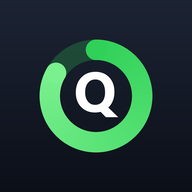
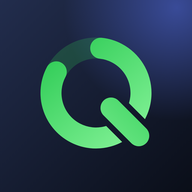
Add files via upload

diff --git a/index.html b/index.html
@@ -550,23 +550,43 @@ ol.steps li::before{
 .splash.gone{opacity:0; visibility:hidden; pointer-events:none}
 .splash-in{
   display:flex; flex-direction:column; align-items:center;
-  transition:transform .55s cubic-bezier(.4,0,.2,1), opacity .35s ease;
+  transition:transform .55s cubic-bezier(.4,0,.2,1), opacity .35s ease, filter .45s ease;
 }
-.splash.gone .splash-in{transform:scale(1.12); opacity:0}
+.splash.gone .splash-in{transform:scale(1.14); opacity:0; filter:blur(8px)}
+
+/* Ardıcıllıq: nişan dumandan çıxır → halqa çəkilir → quyruq çıxıb Q-nu tamamlayır →
+   dalğa və parıltı keçir → ad aydınlaşır. Hər sinfin əsas halı son haldır. */
+.sp-mark{position:relative; width:96px; height:96px}
+.sp-halo{
+  position:absolute; left:50%; top:50%; width:300px; height:300px; margin:-150px 0 0 -150px; border-radius:50%;
+  background:radial-gradient(closest-side, color-mix(in srgb, var(--accent) 38%, transparent), transparent);
+  opacity:.5; pointer-events:none; animation:sp-halo 1.5s .05s cubic-bezier(.2,.7,.2,1) both;
+}
 .splash-logo{
-  width:96px; height:96px; overflow:visible;
-  filter:drop-shadow(0 16px 30px rgba(8,16,32,.32));
-  animation:sp-bump .55s 1.2s cubic-bezier(.3,.7,.3,1) both;
+  position:relative; display:block; width:96px; height:96px; overflow:visible;
+  filter:blur(0) drop-shadow(0 16px 30px rgba(8,16,32,.32));
+  animation:sp-in .75s cubic-bezier(.2,.9,.25,1.06) both, sp-bump .55s 1.12s cubic-bezier(.3,.7,.3,1);
 }
-.sp-bg{transform-box:fill-box; transform-origin:center; animation:sp-bg .6s cubic-bezier(.2,.9,.25,1.1) both}
-.sp-track{opacity:0; animation:qj-fade .35s .3s ease both}
-.sp-arc{stroke-dashoffset:300; animation:sp-arc .9s .38s cubic-bezier(.5,.05,.2,1) both}
-.sp-q{transform-box:fill-box; transform-origin:center; animation:sp-q .5s .7s cubic-bezier(.2,.9,.3,1.35) both}
-.splash-name{margin-top:24px; font-size:22px; font-weight:700; letter-spacing:-.025em; color:var(--ink); animation:sp-up .55s .85s cubic-bezier(.2,.8,.2,1) both}
-.splash-sub{margin-top:4px; font-size:14px; color:var(--muted); animation:sp-up .55s .97s cubic-bezier(.2,.8,.2,1) both}
-@keyframes sp-bg{from{transform:scale(.35) rotate(-14deg); opacity:0} to{transform:none; opacity:1}}
-@keyframes sp-arc{0%{stroke-dashoffset:300; opacity:0} 5%{opacity:1} 100%{stroke-dashoffset:0; opacity:1}}
-@keyframes sp-q{from{opacity:0; transform:scale(.35) rotate(-20deg)} to{opacity:1; transform:none}}
+.sp-track{animation:qj-fade .4s .25s ease both}
+.sp-arc{animation:sp-arc .85s .35s cubic-bezier(.65,0,.25,1) both}
+.sp-tail{animation:sp-tail .34s .78s cubic-bezier(.3,.8,.3,1) both}
+.sp-ripple{opacity:0; transform-box:fill-box; transform-origin:center; animation:sp-ripple .8s 1.1s cubic-bezier(.2,.6,.3,1) both}
+.sp-shine{opacity:0; animation:sp-shine .85s 1.1s cubic-bezier(.4,0,.2,1) both}
+.splash-name{margin-top:24px; font-size:22px; font-weight:700; letter-spacing:-.025em; color:var(--ink); animation:sp-name .7s .8s cubic-bezier(.2,.8,.2,1) both}
+.splash-sub{margin-top:4px; font-size:14px; color:var(--muted); animation:sp-up .6s .98s cubic-bezier(.2,.8,.2,1) both}
+@keyframes sp-in{
+  from{opacity:0; transform:scale(.62); filter:blur(12px) drop-shadow(0 16px 30px rgba(8,16,32,0))}
+  to{opacity:1; transform:none; filter:blur(0) drop-shadow(0 16px 30px rgba(8,16,32,.32))}
+}
+@keyframes sp-halo{0%{opacity:0; transform:scale(.45)} 55%{opacity:.85} 100%{opacity:.5; transform:none}}
+@keyframes sp-arc{0%{stroke-dashoffset:292; opacity:0} 6%{opacity:1} 100%{stroke-dashoffset:0; opacity:1}}
+@keyframes sp-tail{0%{stroke-dashoffset:1; opacity:0} 12%{opacity:1} 100%{stroke-dashoffset:0; opacity:1}}
+@keyframes sp-ripple{0%{opacity:.75; transform:none} 100%{opacity:0; transform:scale(2.3)}}
+@keyframes sp-shine{0%{opacity:1; transform:translateX(0) skewX(-18deg)} 100%{opacity:1; transform:translateX(64px) skewX(-18deg)}}
+@keyframes sp-name{
+  from{opacity:0; transform:translateY(12px); filter:blur(8px); letter-spacing:.03em}
+  to{opacity:1; transform:none; filter:blur(0); letter-spacing:-.025em}
+}
 @keyframes sp-up{from{opacity:0; transform:translateY(10px)} to{opacity:1; transform:none}}
 @keyframes sp-bump{0%,100%{transform:none} 45%{transform:scale(1.06)}}
 .win.reveal{animation:win-in .6s cubic-bezier(.2,.8,.2,1) both}
@@ -883,16 +903,22 @@ input, textarea, .report, .report *, .hintbox, .dlg-msg, dl.kv dd{
 
 <svg width="0" height="0" style="position:absolute" aria-hidden="true">
   <defs>
-    <linearGradient id="qj-bg" x1="0" y1="0" x2="0" y2="1"><stop offset="0" stop-color="#1c2333"/><stop offset="1" stop-color="#0b0f18"/></linearGradient>
-    <linearGradient id="qj-ring" x1="1" y1="1" x2="0" y2="0"><stop offset="0" stop-color="#30d158"/><stop offset="1" stop-color="#7af08e"/></linearGradient>
+    <linearGradient id="qj-bg" x1="0" y1="0" x2="1" y2="1"><stop offset="0" stop-color="#222d4d"/><stop offset="1" stop-color="#0a0e18"/></linearGradient>
+    <radialGradient id="qj-glow" cx=".92" cy=".04" r=".95"><stop offset="0" stop-color="#5c78fc" stop-opacity=".5"/><stop offset=".62" stop-color="#5c78fc" stop-opacity="0"/></radialGradient>
+    <linearGradient id="qj-ring" gradientUnits="userSpaceOnUse" x1="7.5" y1="25" x2="25" y2="6.9"><stop offset="0" stop-color="#8af59c"/><stop offset="1" stop-color="#27c850"/></linearGradient>
+    <mask id="qj-cut" maskUnits="userSpaceOnUse" x="0" y="0" width="32" height="32"><rect width="32" height="32" fill="#fff"/><line x1="18.5" y1="18" x2="23.125" y2="22.625" stroke="#000" stroke-width="5.375" stroke-linecap="round"/></mask>
   </defs>
+  <!-- loqo: halqanın özü Q hərfidir — qaib halqası, quyruq onu kəsib keçir -->
   <symbol id="qj-logo" viewBox="0 0 32 32">
     <rect width="32" height="32" rx="8" fill="url(#qj-bg)"/>
+    <rect width="32" height="32" rx="8" fill="url(#qj-glow)"/>
     <rect x=".25" y=".25" width="31.5" height="31.5" rx="7.75" fill="none" stroke="#fff" stroke-opacity=".09" stroke-width=".5"/>
-    <circle cx="16" cy="16" r="7.7" fill="none" stroke="#30d158" stroke-opacity=".24" stroke-width="3.4"/>
-    <circle cx="16" cy="16" r="7.7" fill="none" stroke="url(#qj-ring)" stroke-width="3.4" stroke-linecap="round"
-            pathLength="360" stroke-dasharray="300 360" transform="rotate(-90 16 16)"/>
-    <path d="M15.65 18.76Q14.24 18.76 13.35 17.84Q12.46 16.92 12.46 15.45Q12.46 13.9 13.37 12.93Q14.26 11.97 15.76 11.97Q17.16 11.97 18.03 12.89Q18.9 13.81 18.9 15.32Q18.9 16.86 17.99 17.81Q17.96 17.84 17.93 17.87Q17.91 17.9 17.87 17.93L19.54 19.53H17.47L16.6 18.65Q16.17 18.76 15.65 18.76ZM15.71 13.24Q14.94 13.24 14.48 13.83Q14.02 14.41 14.02 15.37Q14.02 16.35 14.48 16.92Q14.94 17.48 15.68 17.48Q16.44 17.48 16.89 16.93Q17.34 16.37 17.34 15.4Q17.34 14.38 16.9 13.81Q16.47 13.24 15.71 13.24Z" fill="#fff"/>
+    <g mask="url(#qj-cut)">
+      <circle cx="16" cy="15.5" r="7.5" fill="none" stroke="#30d158" stroke-opacity=".22" stroke-width="3.5"/>
+      <circle cx="16" cy="15.5" r="7.5" fill="none" stroke="url(#qj-ring)" stroke-width="3.5" stroke-linecap="round"
+              pathLength="360" stroke-dasharray="292 360" transform="rotate(-84 16 15.5)"/>
+    </g>
+    <line x1="18.5" y1="18" x2="23.125" y2="22.625" stroke="url(#qj-ring)" stroke-width="3.5" stroke-linecap="round"/>
   </symbol>
 </svg>
 
@@ -931,17 +957,34 @@ input, textarea, .report, .report *, .hintbox, .dlg-msg, dl.kv dd{
 
 <div class="splash" id="splash" aria-hidden="true">
   <div class="splash-in">
-    <svg class="splash-logo" viewBox="0 0 32 32">
-      <defs>
-        <linearGradient id="sp-bg" x1="0" y1="0" x2="0" y2="1"><stop offset="0" stop-color="#1c2333"/><stop offset="1" stop-color="#0b0f18"/></linearGradient>
-    <linearGradient id="sp-ring" x1="1" y1="1" x2="0" y2="0"><stop offset="0" stop-color="#30d158"/><stop offset="1" stop-color="#7af08e"/></linearGradient>
-      </defs>
-      <rect class="sp-bg" width="32" height="32" rx="8" fill="url(#sp-bg)"/>
-      <circle class="sp-track" cx="16" cy="16" r="7.7" fill="none" stroke="#30d158" stroke-opacity=".24" stroke-width="3.4"/>
-      <circle class="sp-arc" cx="16" cy="16" r="7.7" fill="none" stroke="url(#sp-ring)" stroke-width="3.4" stroke-linecap="round"
-              pathLength="360" stroke-dasharray="300 360" transform="rotate(-90 16 16)"/>
-      <path class="sp-q" d="M15.65 18.76Q14.24 18.76 13.35 17.84Q12.46 16.92 12.46 15.45Q12.46 13.9 13.37 12.93Q14.26 11.97 15.76 11.97Q17.16 11.97 18.03 12.89Q18.9 13.81 18.9 15.32Q18.9 16.86 17.99 17.81Q17.96 17.84 17.93 17.87Q17.91 17.9 17.87 17.93L19.54 19.53H17.47L16.6 18.65Q16.17 18.76 15.65 18.76ZM15.71 13.24Q14.94 13.24 14.48 13.83Q14.02 14.41 14.02 15.37Q14.02 16.35 14.48 16.92Q14.94 17.48 15.68 17.48Q16.44 17.48 16.89 16.93Q17.34 16.37 17.34 15.4Q17.34 14.38 16.9 13.81Q16.47 13.24 15.71 13.24Z" fill="#fff"/>
-    </svg>
+    <div class="sp-mark">
+      <span class="sp-halo"></span>
+      <svg class="splash-logo" viewBox="0 0 32 32">
+        <defs>
+          <linearGradient id="sp-bg" x1="0" y1="0" x2="1" y2="1"><stop offset="0" stop-color="#222d4d"/><stop offset="1" stop-color="#0a0e18"/></linearGradient>
+          <radialGradient id="sp-glow" cx=".92" cy=".04" r=".95"><stop offset="0" stop-color="#5c78fc" stop-opacity=".5"/><stop offset=".62" stop-color="#5c78fc" stop-opacity="0"/></radialGradient>
+          <linearGradient id="sp-ring" gradientUnits="userSpaceOnUse" x1="7.5" y1="25" x2="25" y2="6.9"><stop offset="0" stop-color="#8af59c"/><stop offset="1" stop-color="#27c850"/></linearGradient>
+          <mask id="sp-cut" maskUnits="userSpaceOnUse" x="0" y="0" width="32" height="32"><rect width="32" height="32" fill="#fff"/><line x1="18.5" y1="18" x2="23.125" y2="22.625" stroke="#000" stroke-width="5.375" stroke-linecap="round"/></mask>
+          <clipPath id="sp-clip"><rect width="32" height="32" rx="8"/></clipPath>
+          <linearGradient id="sp-shine" x1="0" y1="0" x2="1" y2="0"><stop offset="0" stop-color="#fff" stop-opacity="0"/><stop offset=".5" stop-color="#fff" stop-opacity=".34"/><stop offset="1" stop-color="#fff" stop-opacity="0"/></linearGradient>
+        </defs>
+        <rect width="32" height="32" rx="8" fill="url(#sp-bg)"/>
+        <rect width="32" height="32" rx="8" fill="url(#sp-glow)"/>
+        <rect x=".25" y=".25" width="31.5" height="31.5" rx="7.75" fill="none" stroke="#fff" stroke-opacity=".09" stroke-width=".5"/>
+        <g clip-path="url(#sp-clip)">
+          <circle class="sp-ripple" cx="16" cy="15.5" r="7.5" fill="none" stroke="#5fe880" stroke-width="1.2"/>
+        </g>
+        <g mask="url(#sp-cut)">
+          <circle class="sp-track" cx="16" cy="15.5" r="7.5" fill="none" stroke="#30d158" stroke-opacity=".22" stroke-width="3.5"/>
+          <circle class="sp-arc" cx="16" cy="15.5" r="7.5" fill="none" stroke="url(#sp-ring)" stroke-width="3.5" stroke-linecap="round"
+                  pathLength="360" stroke-dasharray="292 360" transform="rotate(-84 16 15.5)"/>
+        </g>
+        <line class="sp-tail" x1="18.5" y1="18" x2="23.125" y2="22.625" stroke="url(#sp-ring)" stroke-width="3.5" stroke-linecap="round" pathLength="1" stroke-dasharray="1 1"/>
+        <g clip-path="url(#sp-clip)">
+          <rect class="sp-shine" x="-16" y="-8" width="10" height="48" fill="url(#sp-shine)"/>
+        </g>
+      </svg>
+    </div>
     <span class="splash-name">Qaib Jurnalı</span>
     <span class="splash-sub">Davamiyyət · cədvəl · qiymətlər</span>
   </div>
@@ -949,7 +992,7 @@ input, textarea, .report, .report *, .hintbox, .dlg-msg, dl.kv dd{
 
 <script>
 "use strict";
-var APP_BUILD = "20261116-1700";
+var APP_BUILD = "20261116-1730";
 var CLOUD_SYNC = true;   // GitHub Pages: Firebase RTDB ile sinxron
 var ICON_HREF = "icon-180.png";
 
@@ -4191,9 +4234,9 @@ if ("serviceWorker" in navigator && location.protocol === "https:") {
       }
       playEnter();
     }
-    setTimeout(() => { if (sp.parentNode) sp.parentNode.removeChild(sp); }, 600);
+    setTimeout(() => { if (sp.parentNode) sp.parentNode.removeChild(sp); }, 650);
   };
-  setTimeout(bitir, az ? 0 : 1700);
+  setTimeout(bitir, az ? 0 : 1850);
 })();
 
 /* icmal açıqdırsa, "növbəti dərs" kartı hər dəqiqə yenilənir */

diff --git a/sw.js b/sw.js
@@ -1,7 +1,7 @@
 /* Qaib Jurnali - sade oflayn kes.
    Sened sorgulari sebekadan gelir (yenilikler derhal gorunsun),
    sebeka yoxdursa kesdeki nusxa verilir. */
-const CACHE = "qaib-20261116-1700";
+const CACHE = "qaib-20261116-1730";
 const SHELL = ["./", "./index.html", "./manifest.json",
                "./icon-180.png", "./icon-192.png", "./icon-512.png", "./badge-96.png"];
 
